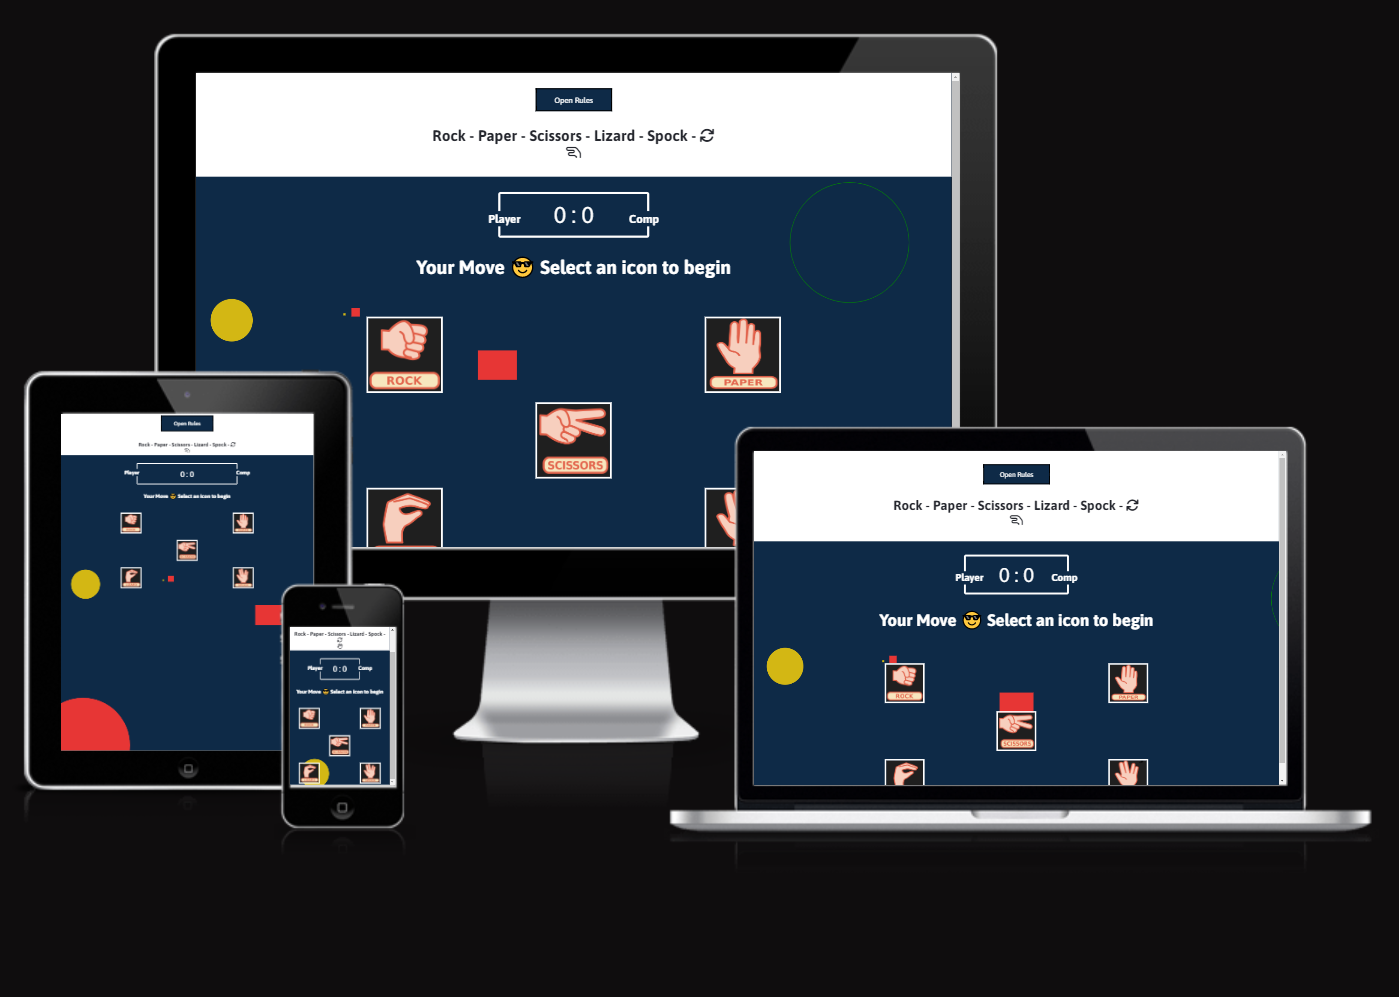
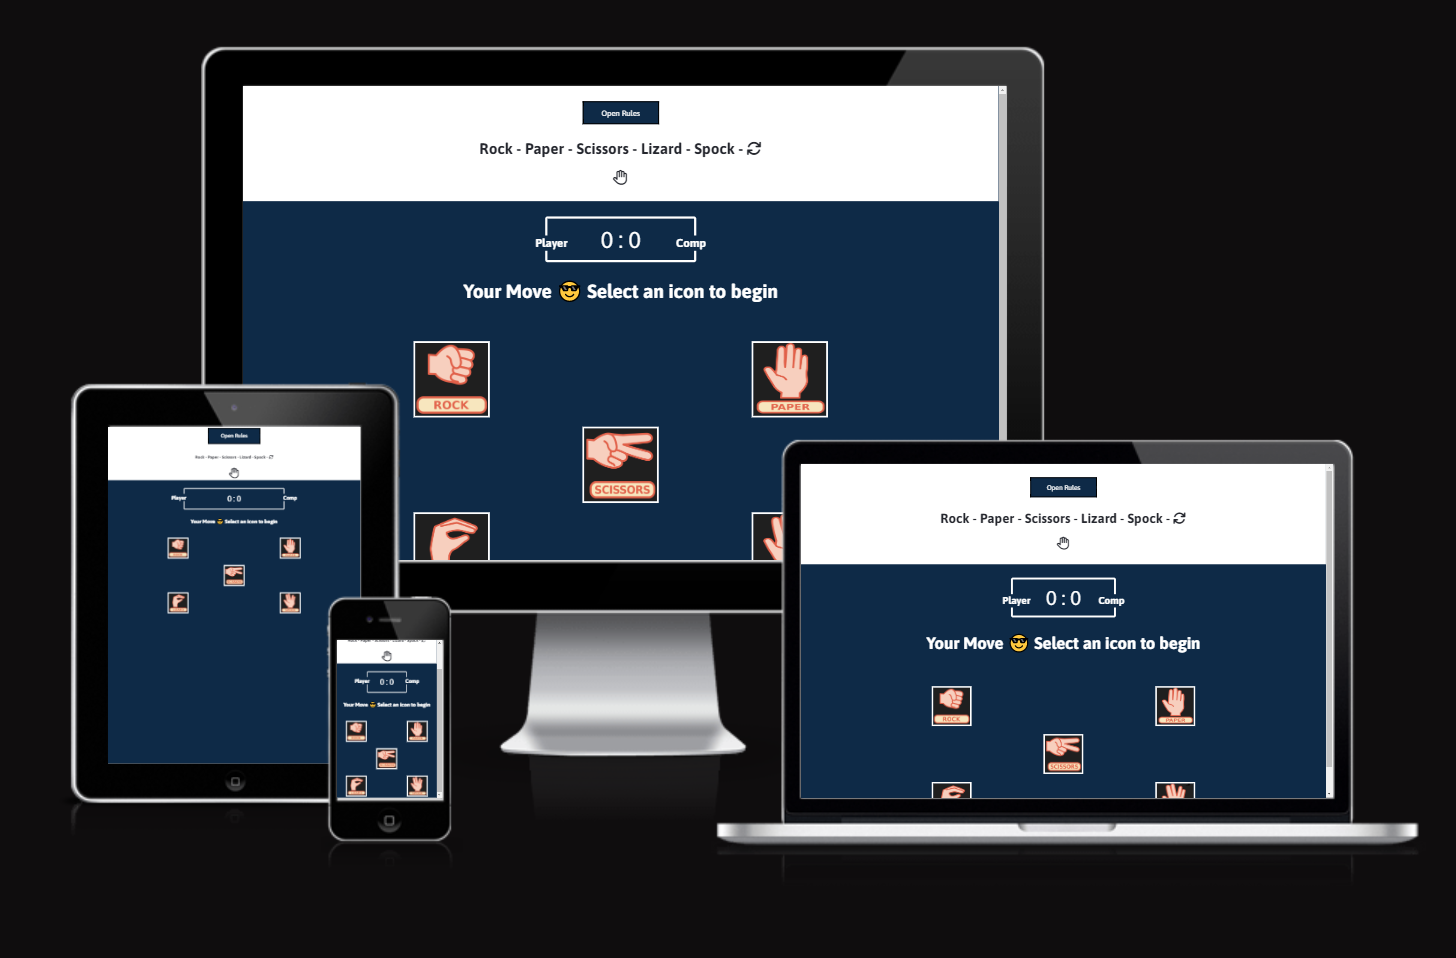
Add screenshots to the features section of the README

Changed region(s): [[0.0, 0.0303, 0.9836, 0.9081]]

diff --git a/assets/css/style.css b/assets/css/style.css
@@ -15,7 +15,6 @@
 body {
     max-width: var(--content-max-width);
     background-color: #0E2A47;
-    /* background-image: url('../images/colored-shapes.png'); */
 }
 /* rules for the header element */
 header {

diff --git a/README.md b/README.md
@@ -37,21 +37,23 @@ The goal of this project is to provide a fun and entertaining game which is not 
 
    - The header area contains a heading with the name of the game along with fontawesome icon that changes every two seconds.
    - The "Open Rules" button displays a modal showing the rules of the game. Clicking the x icon or anywhere outside of the modal, closes the modal.
-   - There is a link in the modal to a Big-Bang Theory wiki page.
+   - There is a link in the modal to a Big-Bang Theory wiki page, in case the player wants to read more about the origin of the game.
    - Clicking the refresh icon re-loads the page and re-starts the game.
 
 <br>
 
-![Clicking the modal displays the rules of the game](documentation/rules-of-the-game.png)
+#### Screenshot of the game rules.
 
-<br>
+![Clicking the modal displays the rules of the game](documentation/rules-of-the-game.png)
 
 - Scoreboard
 
    - The scoreboard area displays the player & computer scores.
    - It contains a player and a computer badge on each side so you can, at a glance differentiate between the two.
 
-<br>
+#### Screenshot of the scoreboard area
+
+![Clicking the modal displays the rules of the game](documentation/scoreboard.png)
 
 - Result
 
@@ -61,7 +63,9 @@ The goal of this project is to provide a fun and entertaining game which is not 
    - If the computer wins, the outcome of the match is shown with the message "You LOST!".
    - When the outcome is tied, a message with "It's a DRAW!" is shown.
 
-<br>
+#### Result of the round is shown here
+
+![Clicking the modal displays the rules of the game](documentation/result-of-the-round.png)
 
 - Game area
 
@@ -71,7 +75,9 @@ The goal of this project is to provide a fun and entertaining game which is not 
    - If the computer wins the round, a red outline and shadow appears around the image indicating a lose.
    - If both the player and computer select the same option, the border is unchanged, but the outcome of a draw is displayed in the results area.
 
-<br>
+#### Game are & clickable icons
+
+![Clicking the modal displays the rules of the game](documentation/game-area.png)
 
 ## Testing
 
@@ -125,8 +131,6 @@ The goal of this project is to provide a fun and entertaining game which is not 
 
 ![Lighthouse screenshot](documentation/lighthouse-report.png)
 
-<br>
-
 ## Bugs
 
 - Squashed Bugs
@@ -137,8 +141,6 @@ The goal of this project is to provide a fun and entertaining game which is not 
 - Unfixed Bugs
 
    - There are no unfixed bugs that I can find.
-
-<br>
 
 ## Deployment
 
@@ -161,11 +163,7 @@ The goal of this project is to provide a fun and entertaining game which is not 
    - I found images for the game icons here [Open Clip-art](https://openclipart.org/detail/325665/rock-paper-scissors-lizard-spock)
    - The majority of the code for the modal was taken from [W3Schools](https://www.w3schools.com/howto/tryit.asp?filename=tryhow_css_modal)
 
-<br>
-
 ## Technologies & Tools Used
-
-<br>
 
 - HTML5
 - CSS3
